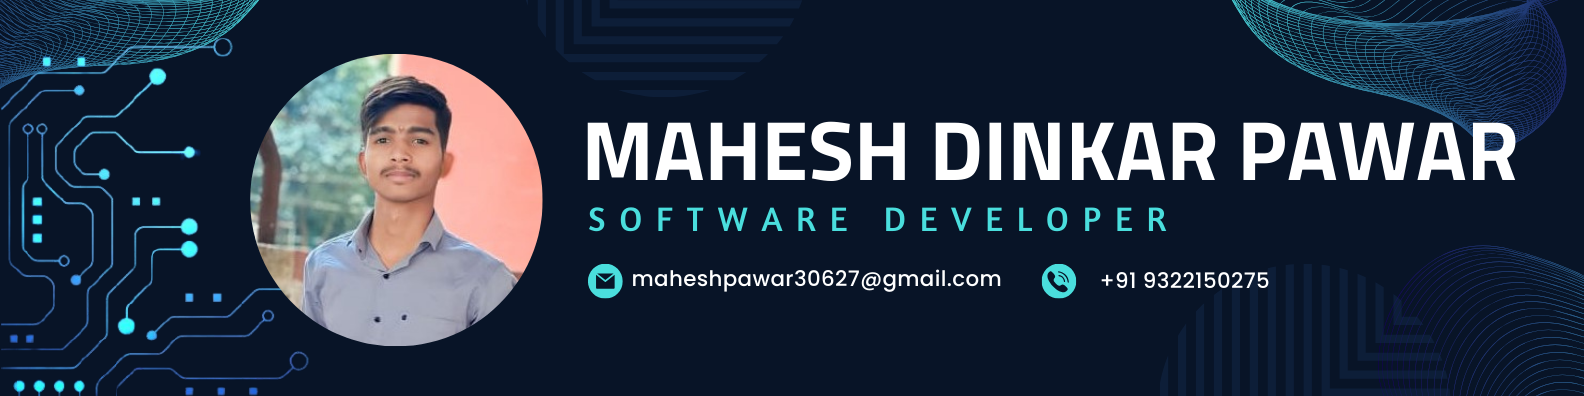
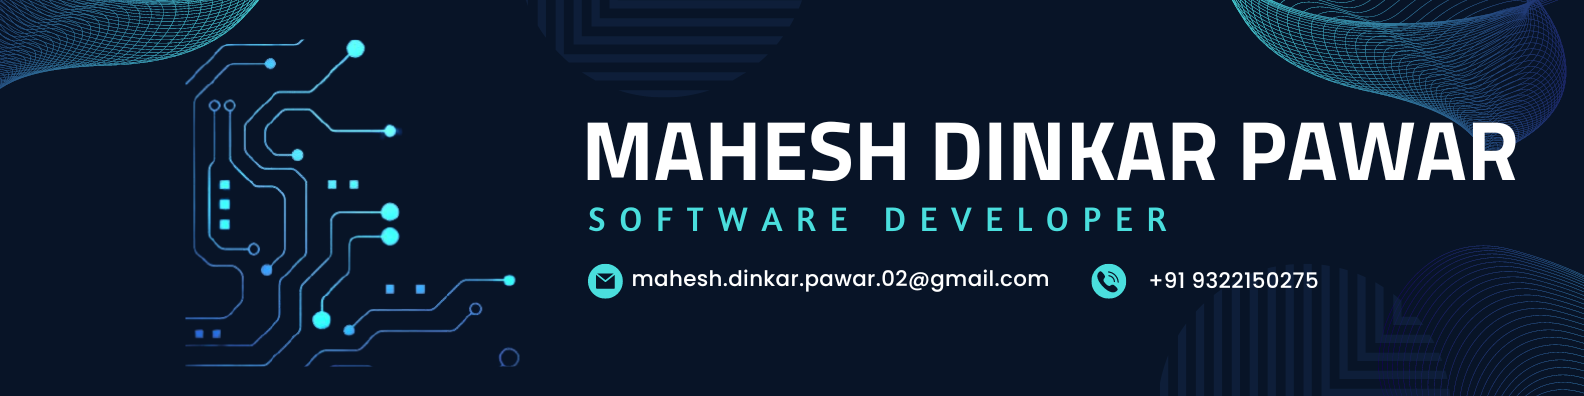
profile pic removed

diff --git a/README.md b/README.md
@@ -11,7 +11,7 @@
 
 - 👨💻 All of my projects are available at [github.com/Mahesh-Pawar-02](https://github.com/Mahesh-Pawar-02)
 
-- 📫 How to reach me **maheshpawar30627@gmail.com**
+- 📫 How to reach me **mahesh.dinkar.pawar.02@gmail.com**
 
 - ⚡ Fun fact **I think i am funny**
 
